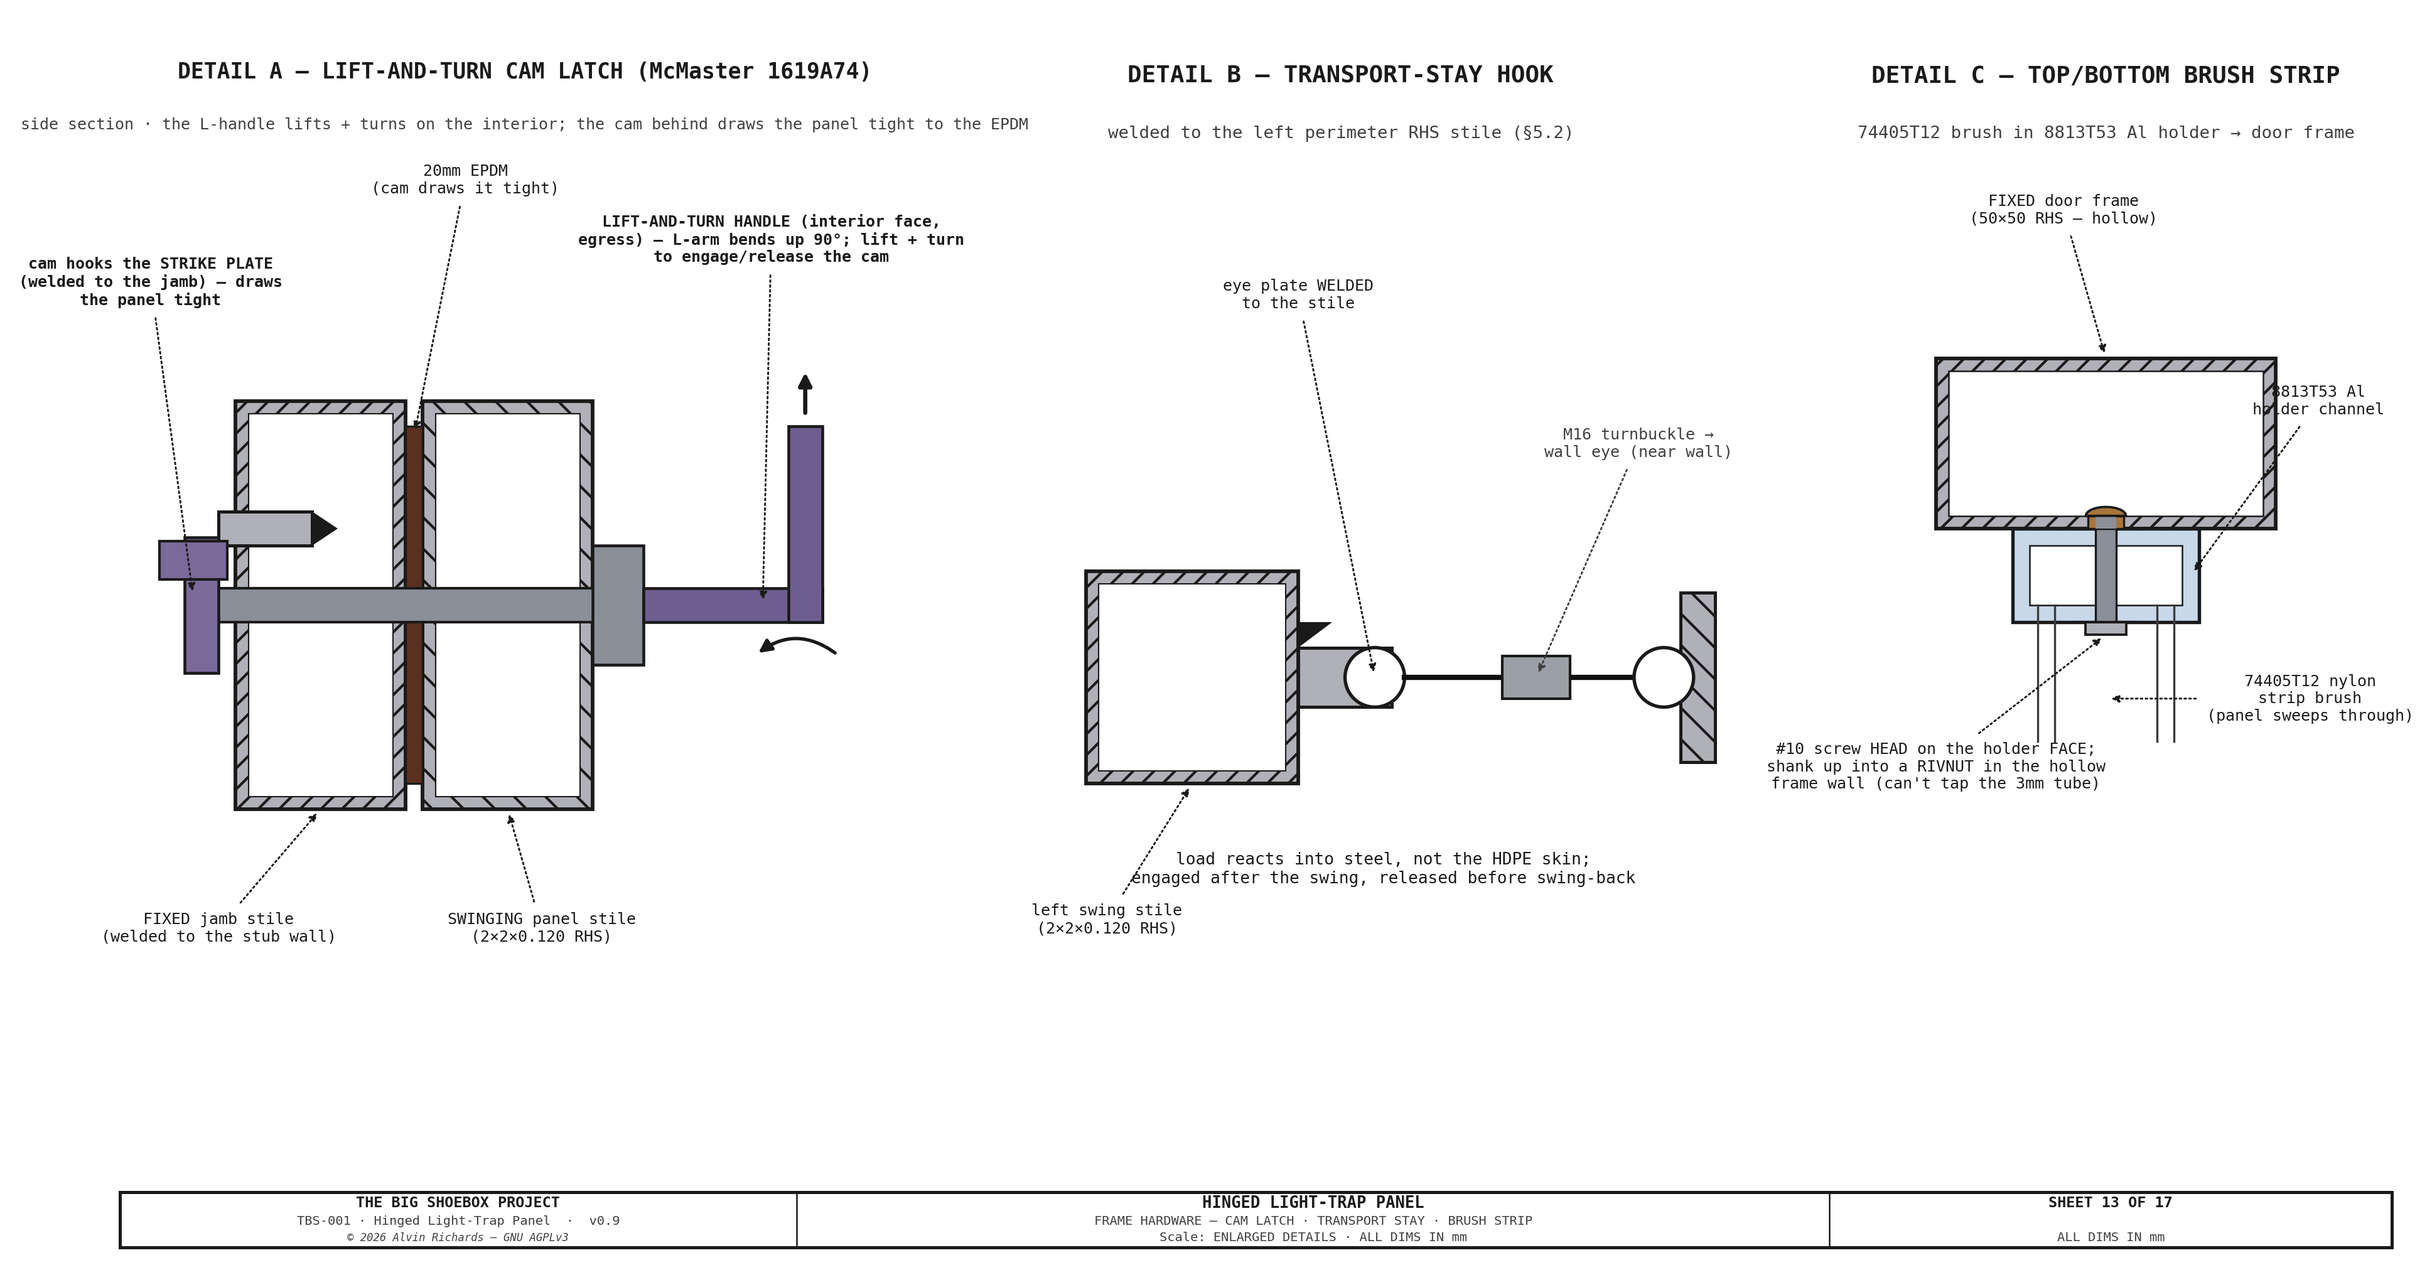
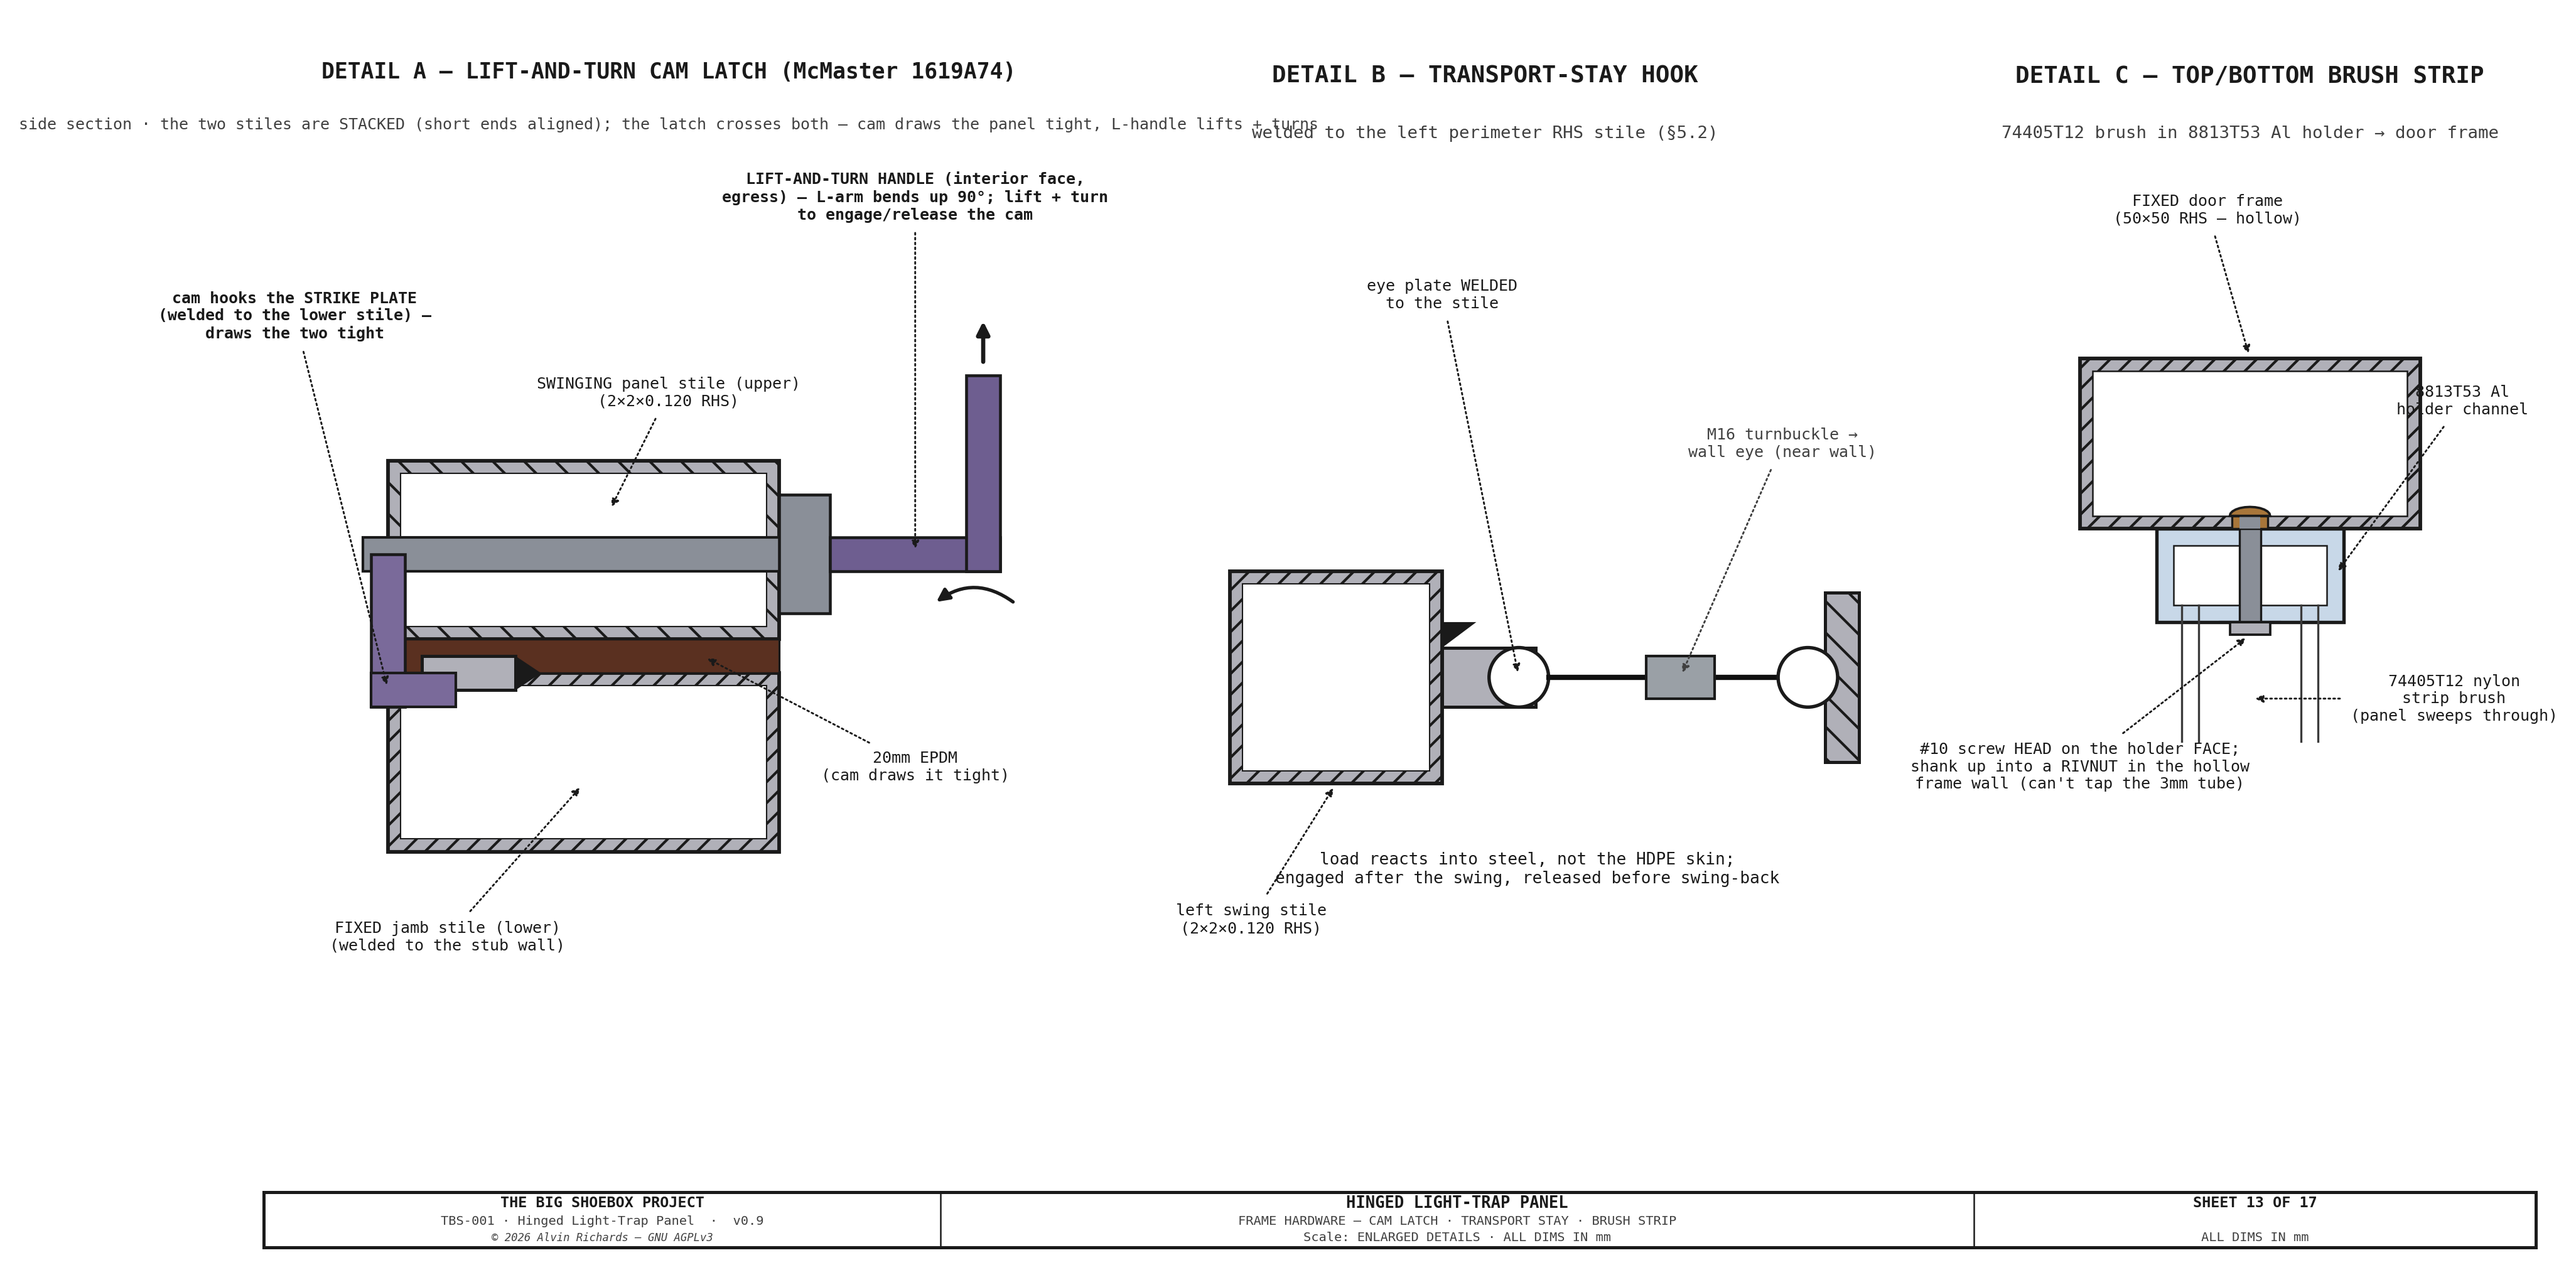
Sheet 13 Detail A: stack the two stiles vertically (short ends aligned), latch crosses both

diff --git a/src/generators/generate_hingepanel_diagram.py b/src/generators/generate_hingepanel_diagram.py
@@ -2547,33 +2547,32 @@ def sheet13():
     #   EXTERIOR at LEFT (cam + jamb) → INTERIOR at RIGHT (handle).
     Ax = 6
     ax.text(Ax + 92, 206, "DETAIL A — LIFT-AND-TURN CAM LATCH (McMaster 1619A74)", ha="center", fontsize=8.3, fontweight="bold", color=C_OUT, **FONT)
-    ax.text(Ax + 92, 194, "side section · the L-handle lifts + turns on the interior; the cam behind draws the panel tight to the EPDM", ha="center", fontsize=6.0, color=C_DIM, **FONT)
-    # Two stiles SIDE BY SIDE (fixed jamb + swinging panel); the clamp shaft crosses BOTH.
-    ax.add_patch(Rectangle((Ax + 24, 34), 40, 96, fc=C_STEEL, ec=C_OUT, lw=1.4, hatch="///", zorder=4))   # FIXED jamb stile (left)
-    ax.add_patch(Rectangle((Ax + 27, 37), 34, 90, fc=BG, ec=C_OUT, lw=0.5, zorder=4))
-    ax.add_patch(Rectangle((Ax + 68, 34), 40, 96, fc=C_STEEL, ec=C_OUT, lw=1.4, hatch="\\\\", zorder=4))  # SWINGING panel stile (right)
-    ax.add_patch(Rectangle((Ax + 71, 37), 34, 90, fc=BG, ec=C_OUT, lw=0.5, zorder=4))
-    leader(ax, (Ax + 44, 34), (Ax + 20, 6), "FIXED jamb stile\n(welded to the stub wall)", col=C_OUT, fs=6)
-    leader(ax, (Ax + 88, 34), (Ax + 96, 6), "SWINGING panel stile\n(2\u00d72\u00d70.120 RHS)", col=C_OUT, fs=6)
-    # thin 20mm EPDM compressed in the gap between the two stiles
-    ax.add_patch(Rectangle((Ax + 64, 40), 4, 84, fc=C_GASKT, ec=C_OUT, lw=0.8, zorder=5))
-    leader(ax, (Ax + 66, 122), (Ax + 78, 182), "20mm EPDM\n(cam draws it tight)", col=C_OUT, fs=6)
-    # clamp SHAFT — crosses ACROSS both stiles at mid-height
-    ax.add_patch(Rectangle((Ax + 14, 78), 106, 8, fc="#8A8F98", ec=C_OUT, lw=1.0, zorder=7))
-    # cam at the LEFT end — turned, it hooks the strike welded to the jamb (draws the panel tight)
-    ax.add_patch(Rectangle((Ax + 12, 66), 8, 32, fc="#7A6A9A", ec=C_OUT, lw=1.1, zorder=8))               # cam body
-    ax.add_patch(Rectangle((Ax + 6, 88), 16, 9, fc="#7A6A9A", ec=C_OUT, lw=1.0, zorder=8))                # cam hook over the strike
-    ax.add_patch(Rectangle((Ax + 20, 96), 22, 8, fc=C_STEEL, ec=C_OUT, lw=1.2, zorder=6))                 # STRIKE plate on the jamb
-    ax.add_patch(Polygon([(Ax + 42, 96), (Ax + 42, 104), (Ax + 48, 100)], closed=True, fc=C_OUT, ec="none", zorder=7))  # weld to jamb
-    leader(ax, (Ax + 14, 84), (Ax + 4, 158), "cam hooks the STRIKE PLATE\n(welded to the jamb) \u2014 draws\nthe panel tight", col=C_OUT, fw="bold", fs=6)
-    # escutcheon / body on the INTERIOR face of the panel stile
-    ax.add_patch(Rectangle((Ax + 108, 68), 12, 28, fc="#8A8F98", ec=C_OUT, lw=1.1, zorder=7))
-    # L-SHAPED lift-and-turn HANDLE on the interior — horizontal arm bending UP 90\u00b0
-    ax.add_patch(Rectangle((Ax + 120, 78), 42, 8, fc="#6E5E90", ec=C_OUT, lw=1.1, zorder=9))              # handle arm (out)
-    ax.add_patch(Rectangle((Ax + 154, 78), 8, 46, fc="#6E5E90", ec=C_OUT, lw=1.1, zorder=9))              # handle grip (bent UP 90\u00b0)
-    ax.annotate("", xy=(Ax + 158, 138), xytext=(Ax + 158, 126), arrowprops=dict(arrowstyle="-|>", color=C_OUT, lw=1.6), zorder=10)  # LIFT
-    ax.annotate("", xy=(Ax + 146, 70), xytext=(Ax + 166, 70), arrowprops=dict(arrowstyle="-|>", color=C_OUT, lw=1.3, connectionstyle="arc3,rad=0.4"), zorder=10)  # TURN
-    leader(ax, (Ax + 148, 82), (Ax + 150, 168), "LIFT-AND-TURN HANDLE (interior face,\negress) \u2014 L-arm bends up 90\u00b0; lift + turn\nto engage/release the cam", col=C_OUT, fw="bold", fs=6)
+    ax.text(Ax + 92, 194, "side section · the two stiles are STACKED (short ends aligned); the latch crosses both — cam draws the panel tight, L-handle lifts + turns", ha="center", fontsize=6.0, color=C_DIM, **FONT)
+    # Two stiles STACKED vertically (short ends aligned): FIXED jamb (lower) + SWINGING panel (upper).
+    ax.add_patch(Rectangle((Ax + 26, 24), 92, 42, fc=C_STEEL, ec=C_OUT, lw=1.4, hatch="///", zorder=4))    # FIXED jamb stile (LOWER)
+    ax.add_patch(Rectangle((Ax + 29, 27), 86, 36, fc=BG, ec=C_OUT, lw=0.5, zorder=4))
+    ax.add_patch(Rectangle((Ax + 26, 74), 92, 42, fc=C_STEEL, ec=C_OUT, lw=1.4, hatch="\\\\", zorder=4))   # SWINGING panel stile (UPPER)
+    ax.add_patch(Rectangle((Ax + 29, 77), 86, 36, fc=BG, ec=C_OUT, lw=0.5, zorder=4))
+    ax.add_patch(Rectangle((Ax + 26, 66), 92, 8, fc=C_GASKT, ec=C_OUT, lw=0.8, zorder=5))                  # 20mm EPDM between (compressed)
+    leader(ax, (Ax + 72, 40), (Ax + 40, 4), "FIXED jamb stile (lower)\n(welded to the stub wall)", col=C_OUT, fs=6)
+    leader(ax, (Ax + 78, 104), (Ax + 92, 132), "SWINGING panel stile (upper)\n(2\u00d72\u00d70.120 RHS)", col=C_OUT, fs=6)
+    leader(ax, (Ax + 100, 70), (Ax + 150, 44), "20mm EPDM\n(cam draws it tight)", col=C_OUT, fs=6)
+    # clamp SHAFT \u2014 horizontal, through the UPPER stile then out to the handle
+    ax.add_patch(Rectangle((Ax + 20, 90), 104, 8, fc="#8A8F98", ec=C_OUT, lw=1.0, zorder=7))
+    # cam reaches DOWN from the shaft to hook the strike on the LOWER stile (draws the two tight)
+    ax.add_patch(Rectangle((Ax + 22, 58), 8, 36, fc="#7A6A9A", ec=C_OUT, lw=1.1, zorder=8))                # cam arm (down)
+    ax.add_patch(Rectangle((Ax + 22, 58), 20, 8, fc="#7A6A9A", ec=C_OUT, lw=1.0, zorder=8))                # cam hook under the strike
+    ax.add_patch(Rectangle((Ax + 34, 62), 22, 8, fc=C_STEEL, ec=C_OUT, lw=1.2, zorder=6))                  # STRIKE plate on the lower stile
+    ax.add_patch(Polygon([(Ax + 56, 62), (Ax + 56, 70), (Ax + 62, 66)], closed=True, fc=C_OUT, ec="none", zorder=7))  # weld to lower stile
+    leader(ax, (Ax + 26, 62), (Ax + 4, 150), "cam hooks the STRIKE PLATE\n(welded to the lower stile) \u2014\ndraws the two tight", col=C_OUT, fw="bold", fs=6)
+    # escutcheon on the interior face of the UPPER stile
+    ax.add_patch(Rectangle((Ax + 118, 80), 12, 28, fc="#8A8F98", ec=C_OUT, lw=1.1, zorder=7))
+    # L-SHAPED lift-and-turn HANDLE \u2014 arm out (right) + grip bent UP 90\u00b0
+    ax.add_patch(Rectangle((Ax + 130, 90), 40, 8, fc="#6E5E90", ec=C_OUT, lw=1.1, zorder=9))               # handle arm
+    ax.add_patch(Rectangle((Ax + 162, 90), 8, 46, fc="#6E5E90", ec=C_OUT, lw=1.1, zorder=9))               # grip bent UP
+    ax.annotate("", xy=(Ax + 166, 150), xytext=(Ax + 166, 138), arrowprops=dict(arrowstyle="-|>", color=C_OUT, lw=1.6), zorder=10)  # LIFT
+    ax.annotate("", xy=(Ax + 154, 82), xytext=(Ax + 174, 82), arrowprops=dict(arrowstyle="-|>", color=C_OUT, lw=1.3, connectionstyle="arc3,rad=0.4"), zorder=10)  # TURN
+    leader(ax, (Ax + 150, 94), (Ax + 150, 178), "LIFT-AND-TURN HANDLE (interior face,\negress) \u2014 L-arm bends up 90\u00b0; lift + turn\nto engage/release the cam", col=C_OUT, fw="bold", fs=6)
 
     # ═══ DETAIL B — transport-stay hook (welded to the stile) ════════════════
     Bx = 210
